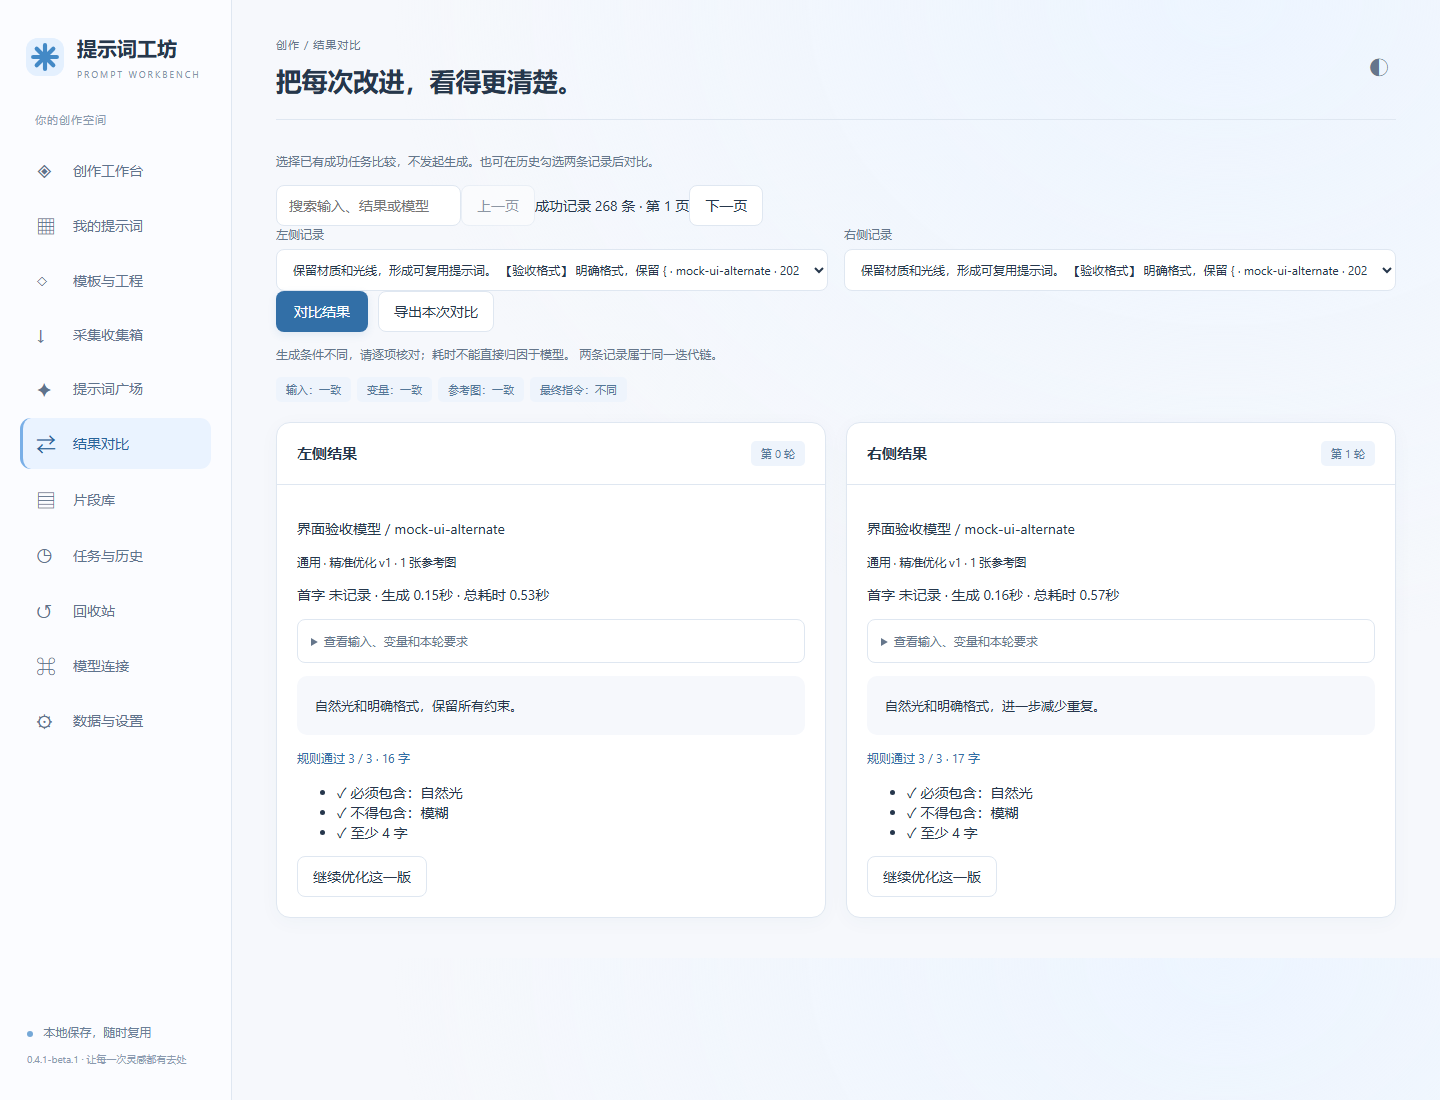
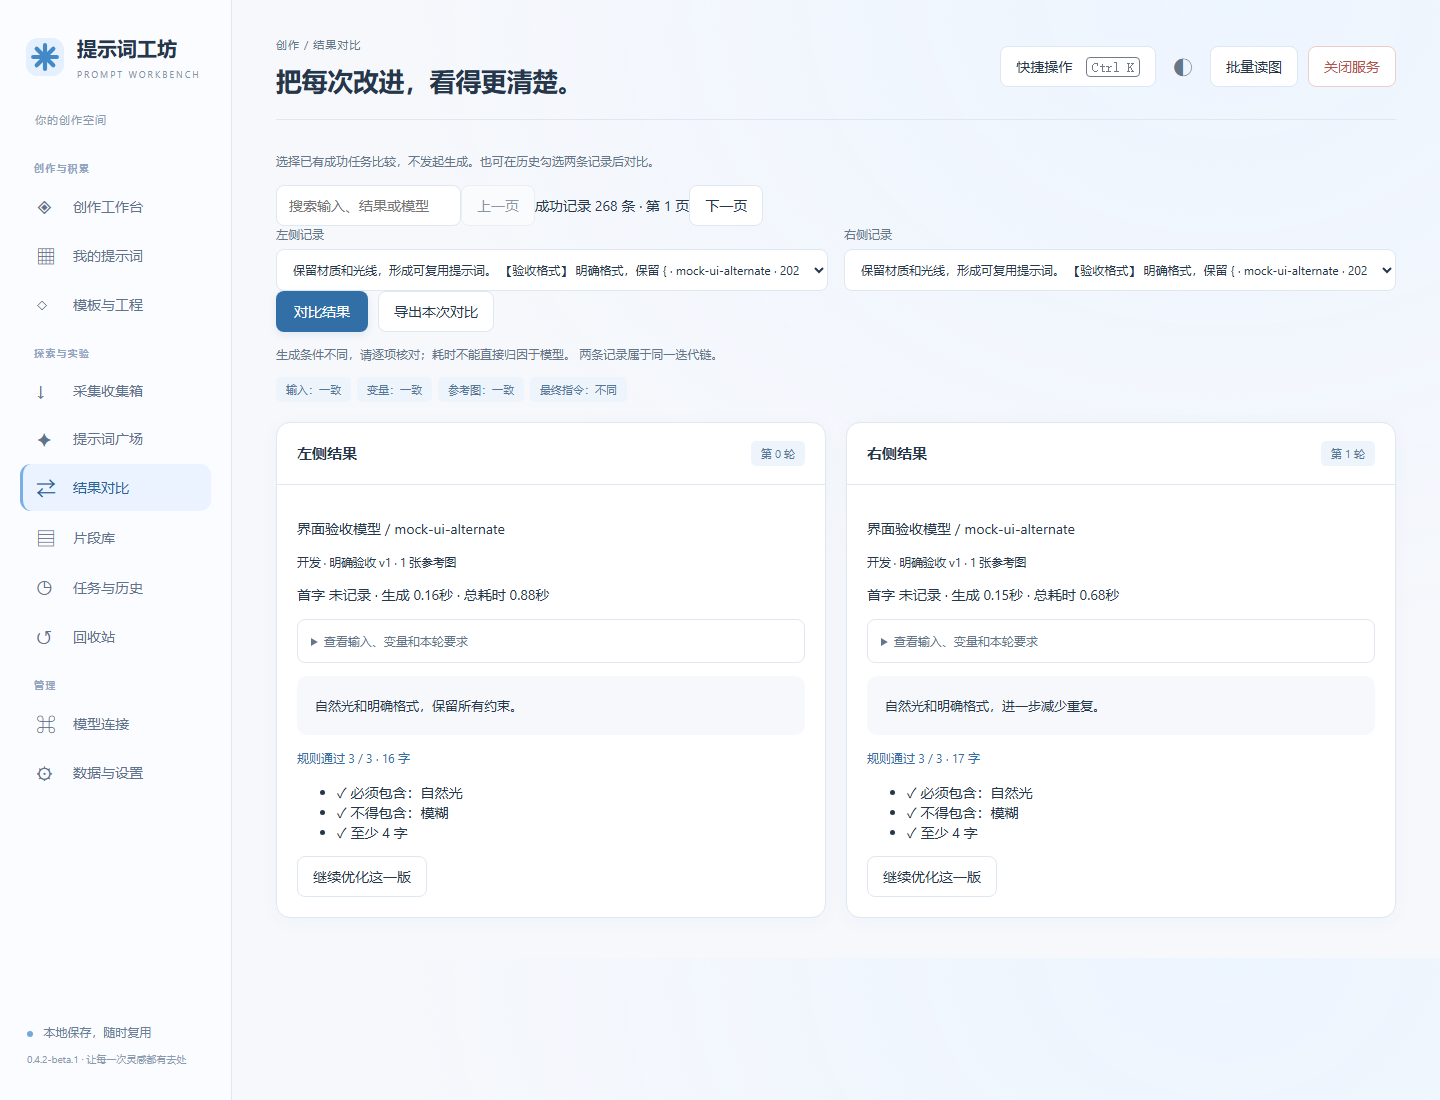
fix: preserve public source policy and old-backend draft recovery

diff --git a/public/source-manager.js b/public/source-manager.js
@@ -4,7 +4,7 @@ const statusText={queued:'等待',running:'同步中',succeeded:'成功',failed:
 export class SourceManager{
   constructor(ctx){this.c=ctx;this.selected=new Set();this.feeds=[];this.batch={status:'idle',items:[]};this.timer=null;this.starting=false;this.importing=false;}
   render(feeds,batch=this.c.readState().sourceBatch){this.feeds=feeds;this.batch=batch||this.batch;const busy=this.starting||this.importing||['running','cancelling'].includes(this.batch.status);
-    $('#share-feeds').innerHTML=feeds.map(f=>{const item=this.batch.items?.find(i=>i.id===f.id),syncable=f.syncable!==false;return `<article class="feed-card ${this.selected.has(f.id)?'is-selected':''}"><div class="feed-heading"><label class="check"><input type="checkbox" data-select-feed="${esc(f.id)}" ${this.selected.has(f.id)?'checked':''} aria-label="选中 ${esc(f.name)}"><strong>${esc(f.auditId||'基础源')}</strong></label><h3>${esc(f.name)}</h3><span class="mini-tag">${syncable?'公开同步':'文件导入'}</span></div><small>${esc(f.license)}</small><p>${esc(f.description)}</p><p class="muted">${esc(f.notice||'同步公开正文，个人收藏独立保留。')}</p><div class="feed-meta">${f.lastSync?`可展示 ${Number(f.count)||0} 条${f.total>f.count?' / 原站 '+f.total+' 条':''} · ${new Date(f.lastSync).toLocaleDateString('zh-CN')}`:'尚无缓存'}${item?`<p class="feed-result">${esc(statusText[item.status])}${item.added!=null?' · 新增 '+Number(item.added)+' · 已有跳过 '+Number(item.unchanged||0):''}${item.count!=null?' · '+Number(item.count)+'条':''}${item.error?' · '+esc(item.error):''}</p>`:''}${['s38','s39'].includes(f.id)?`<p>${f.scanVersion==='free-id-asc-100-v1'&&/[?&]access_type=0(?:&|$)/.test(f.fetchedUrl||'')?'免费目录':'旧全站统计（待迁移）'} ${f.total||'待读取'} · 已扫描 ${f.scannedTotal||0} · 详情成功 ${f.detailTotal||0} · 合格 ${f.eligibleTotal||0} · 跳过 ${(f.rejectedTotal||0)+(f.lockedTotal||0)}<br>${f.scanComplete?'本轮扫描完成':'待续页 '+(f.scanVersion?f.nextPage||1:1)}${f.syncing?' · 正在读第 '+(f.currentPage||1)+' 页，详情 '+(f.pageLoaded||0)+'/100':''}${f.totalChanged?' · 原站数量变化，请完成后重新核对':''}${f.historyCases?' · 历史集合 '+f.historyCases+'，合格 '+f.historyEligible:''}</p>`:''}${f.lastAdded!=null?`<p>最近新增 ${Number(f.lastAdded)||0} · 已有跳过 ${Number(f.lastUnchanged)||0}${f.readStrategy==='snapshot-diff'?' · 下载源快照后本地比对':f.readStrategy==='latest-pages'?' · 从最新内容读取':''}</p>`:''}${f.incrementalNextPage?`<p>增量更新待续第 ${Number(f.incrementalNextPage)} 页</p>`:''}${f.lastError?`<span class="history-error">${esc(f.lastError)}</span>`:''}</div><div class="button-row"><button class="secondary" data-action="feed-sync" data-id="${esc(f.id)}" ${busy||!syncable?'disabled':''}>${syncable?'同步此源':'需要原站文件'}</button>${['mother','s38','s39'].includes(f.id)?`<button class="secondary" data-action="feed-next" data-id="${esc(f.id)}" ${busy||!syncable||(f.lastPage&&!f.nextPage)?'disabled':''}>${f.id==='mother'?'读取下一页':'继续下一批'}</button>`:''}${['s38','s39'].includes(f.id)?`<button class="primary" data-action="feed-full" data-id="${esc(f.id)}" ${busy?'disabled':''}>全量 / 继续剩余</button><button class="text-button" data-action="feed-restart" data-id="${esc(f.id)}" ${busy?'disabled':''}>重新核对全量</button>`:''}${f.id==='s38'?`<button class="secondary" data-action="feed-history" data-id="s38" ${busy?'disabled':''}>补充历史 Markdown</button><button class="text-button" data-action="feed-references" data-id="s38">历史参考 / 短原文</button>`:''}<button class="text-button" data-action="feed-import" data-id="${esc(f.id)}" ${busy?'disabled':''}>导入来源文件</button><a class="source-link" href="${esc(f.url)}" target="_blank" rel="noopener noreferrer">访问来源 ↗</a>${f.repoUrl?`<a class="source-link" href="${esc(f.repoUrl)}" target="_blank" rel="noopener noreferrer">历史图片仓库 ↗</a><a class="source-link" href="${esc(f.snapshotUrl)}" target="_blank" rel="noopener noreferrer">历史JSON ↗</a>`:''}</div></article>`;}).join('');
+    $('#share-feeds').innerHTML=feeds.map(f=>{const item=this.batch.items?.find(i=>i.id===f.id),syncable=f.syncable!==false;return `<article class="feed-card ${this.selected.has(f.id)?'is-selected':''}"><div class="feed-heading"><label class="check"><input type="checkbox" data-select-feed="${esc(f.id)}" ${this.selected.has(f.id)?'checked':''} aria-label="选中 ${esc(f.name)}"><strong>${esc(f.auditId||'基础源')}</strong></label><h3>${esc(f.name)}</h3><span class="mini-tag">${syncable?'公开同步':'文件导入'}</span></div><small>${esc(f.license)}</small><p>${esc(f.description)}</p><p class="muted">${esc(f.notice||'同步公开正文，个人收藏独立保留。')}</p><div class="feed-meta">${f.lastSync?`可展示 ${Number(f.count)||0} 条${f.total>f.count?' / 原站 '+f.total+' 条':''} · ${new Date(f.lastSync).toLocaleDateString('zh-CN')}`:'尚无缓存'}${item?`<p class="feed-result">${esc(statusText[item.status])}${item.added!=null?' · 新增 '+Number(item.added)+' · 已有跳过 '+Number(item.unchanged||0):''}${item.count!=null?' · '+Number(item.count)+'条':''}${item.error?' · '+esc(item.error):''}</p>`:''}${['s38','s39'].includes(f.id)?`<p>${f.scanVersion==='free-id-asc-100-v1'&&/[?&]access_type=0(?:&|$)/.test(f.fetchedUrl||'')?'免费目录':'旧全站统计（待迁移）'} ${f.total||'待读取'} · 已扫描 ${f.scannedTotal||0} · 详情成功 ${f.detailTotal||0} · 合格 ${f.eligibleTotal||0} · 跳过 ${(f.rejectedTotal||0)+(f.lockedTotal||0)}<br>${f.scanComplete?'本轮扫描完成':'待续页 '+(f.scanVersion?f.nextPage||1:1)}${f.syncing?' · 正在读第 '+(f.currentPage||1)+' 页，详情 '+(f.pageLoaded||0)+'/100':''}${f.totalChanged?' · 原站数量变化，请完成后重新核对':''}${f.historyCases?' · 历史集合 '+f.historyCases+'，合格 '+f.historyEligible:''}</p>`:''}${f.lastAdded!=null?`<p>最近新增 ${Number(f.lastAdded)||0} · 已有跳过 ${Number(f.lastUnchanged)||0}${f.readStrategy==='snapshot-diff'?' · 下载源快照后本地比对':f.readStrategy==='latest-pages'?' · 从最新内容读取':''}</p>`:''}${f.incrementalNextPage?`<p>增量更新待续第 ${Number(f.incrementalNextPage)} 页</p>`:''}${f.lastError?`<span class="history-error">${esc(f.lastError)}</span>`:''}</div><div class="button-row"><button class="secondary" data-action="feed-sync" data-id="${esc(f.id)}" ${busy||!syncable?'disabled':''}>${syncable?'同步此源':'需要原站文件'}</button>${['mother','s38','s39'].includes(f.id)?`<button class="secondary" data-action="feed-next" data-id="${esc(f.id)}" ${busy||!syncable||(f.lastPage&&!f.nextPage)?'disabled':''}>${f.id==='mother'?'读取下一页':'继续下一批'}</button>`:''}${['s38','s39'].includes(f.id)?`<button class="primary" data-action="feed-full" data-id="${esc(f.id)}" ${busy||!syncable?'disabled':''}>全量 / 继续剩余</button><button class="text-button" data-action="feed-restart" data-id="${esc(f.id)}" ${busy||!syncable?'disabled':''}>重新核对全量</button>`:''}${f.id==='s38'?`<button class="secondary" data-action="feed-history" data-id="s38" ${busy||!syncable?'disabled':''}>补充历史 Markdown</button><button class="text-button" data-action="feed-references" data-id="s38">历史参考 / 短原文</button>`:''}<button class="text-button" data-action="feed-import" data-id="${esc(f.id)}" ${busy?'disabled':''}>导入来源文件</button><a class="source-link" href="${esc(f.url)}" target="_blank" rel="noopener noreferrer">访问来源 ↗</a>${f.repoUrl?`<a class="source-link" href="${esc(f.repoUrl)}" target="_blank" rel="noopener noreferrer">历史图片仓库 ↗</a><a class="source-link" href="${esc(f.snapshotUrl)}" target="_blank" rel="noopener noreferrer">历史JSON ↗</a>`:''}</div></article>`;}).join('');
     $('#source-selected-count').textContent=`已选 ${this.selected.size} / ${feeds.length} 个来源`;
     const all=$('#source-select-all');all.checked=feeds.length>0&&feeds.every(f=>this.selected.has(f.id));all.indeterminate=this.selected.size>0&&!all.checked;
     $('#sources-sync-stop').disabled=this.batch.status!=='running';$('#sources-sync-retry').disabled=busy||!this.batch.items?.some(i=>['failed','interrupted','cancelled'].includes(i.status));$('#sources-sync-export').disabled=!this.batch.items?.length;

diff --git a/public/app.js b/public/app.js
@@ -1,12 +1,34 @@
-import {RecoveryGate} from './recovery-gate.js';
-import {waitForServiceExit} from './service-exit.js';
-import {VERSION,SLOGAN} from './version.js';
-import { Collections } from './collections.js';
-import {Studio}from'./studio.js';
-import {Recycle} from './recycle.js';
-import {PromptLab} from './lab.js';
-import {AssetImporter} from './asset-import.js';
-import {isPromptTextFile} from './prompt-import.js';
+// Keep recovery independent of new modules: an older backend may not serve them.
+const {VERSION:CLIENT_VERSION}=await import('./version.js');
+const backendVersion=(await fetch('/health').then(r=>r.json()).catch(()=>({}))).version;
+if(backendVersion!==CLIENT_VERSION){
+  const $=s=>document.querySelector(s),feedback=$('#run-feedback');let snapshot={},snapshotReady=false,timer,saving=Promise.resolve();
+  const api=async(route,body)=>{const r=await fetch('/api/'+route,{method:body?'POST':'GET',headers:body?{'Content-Type':'application/json'}:{},body:body?JSON.stringify(body):undefined});if(!r.ok)throw Error('旧后台请求失败，请保留输入后使用原关闭脚本');return r.json();};
+  const esc=v=>String(v??'').replace(/[&<>"']/g,c=>({'&':'&amp;','<':'&lt;','>':'&gt;','"':'&quot;',"'":'&#39;'}[c]));
+  const setStatus=text=>{feedback.textContent=text;};
+  try{const state=await api('state');snapshot=state.draft||{};snapshotReady=true;$('#input').value=snapshot.input||'';
+    for(const [selector,rows,name]of [['#provider-select',state.providers||[],'name'],['#template-select',state.templates||[],'name']])$(selector).innerHTML=rows.map(r=>'<option value="'+esc(r.id)+'">'+esc(r[name])+'</option>').join('');
+    $('#provider-select').value=snapshot.providerId||state.providers?.[0]?.id||'';$('#template-select').value=snapshot.templateId||'optimize';
+  }catch(e){setStatus(e.message);}
+  for(const el of document.querySelectorAll('button,select,input,textarea'))if(!el.matches('#input,#shutdown-top,#shutdown'))el.disabled=true;
+  const save=()=>{if(!snapshotReady)return Promise.reject(Error('尚未读取旧草稿，保留当前输入后重试，暂不覆盖保存'));clearTimeout(timer);const input=$('#input').value;saving=saving.catch(()=>{}).then(async()=>{snapshot=await api('draft',{...snapshot,input,providerId:snapshot.providerId||$('#provider-select').value,templateId:snapshot.templateId||$('#template-select').value});});return saving;};
+  $('#input').addEventListener('input',()=>{clearTimeout(timer);timer=setTimeout(()=>save().then(()=>setStatus('旧后台：草稿已保存，可正常关闭后重新启动新版。')).catch(e=>setStatus(e.message)),500);});
+  const close=async()=>{if(!confirm('保存草稿并正常关闭旧后台？'))return;try{await save();await api('shutdown',{});setStatus('正在保存并关闭旧后台，请等待退出确认…');let failures=0;
+    for(let i=0;i<180;i++){await new Promise(r=>setTimeout(r,250));try{const r=await fetch('/health',{cache:'no-store'});if(!r.ok){failures=0;continue;}const h=await r.json();failures=0;if(h.version!==backendVersion){setStatus('旧后台已退出，新版已启动，请刷新页面。');return;}}catch(e){if(e instanceof TypeError&&++failures>=3){setStatus('服务已关闭，可通过启动器重新打开。');return;}}}
+    setStatus('尚未确认退出，请检查原关闭脚本，未强制结束服务。');
+  }catch(e){setStatus(e.message);}};
+  $('#shutdown-top').onclick=close;$('#shutdown').onclick=close;$('#version-tag').textContent=CLIENT_VERSION;
+  setStatus('页面版本与后台不一致：可以编辑并保存草稿、正常关闭；重新启动后启用新版功能。');
+}else{
+const {RecoveryGate}=await import("./recovery-gate.js");
+const {waitForServiceExit}=await import("./service-exit.js");
+const {VERSION,SLOGAN}=await import("./version.js");
+const { Collections }=await import("./collections.js");
+const {Studio}=await import("./studio.js");
+const {Recycle}=await import("./recycle.js");
+const {PromptLab}=await import("./lab.js");
+const {AssetImporter}=await import("./asset-import.js");
+const {isPromptTextFile}=await import("./prompt-import.js");
 const $=s=>document.querySelector(s);
 const esc=v=>String(v??'').replace(/[&<>"']/g,c=>({'&':'&amp;','<':'&lt;','>':'&gt;','"':'&quot;',"'":'&#39;'}[c]));
 let state={providers:[],templates:[],assets:[],jobs:[],presets:[]},currentJob=null,images=[],lastResult='',selectorStamp='',draftTimer,toastTimer,importMode='backup';
@@ -19,7 +41,7 @@ const studio=new Studio({api,act,refresh,toast,openForm,useText:useCollectedText
 const lab=new PromptLab({api,act,refresh,toast,show,download,payload,draft,assertIdle:assertInputIdle,useText:useComposedText,readState:()=>state,lastResult:()=>lastResult,selectedJobs:()=>[...collections.jobSelection],submit:submitJob});
 const assetImporter=new AssetImporter({api,act,toast,openForm});
 let imageBatchUI,connectionUI,settingsUI;
-const backendVersion=(await fetch('/health').then(r=>r.json()).catch(()=>({}))).version;let inputSource=null,imageEpoch=0;
+let inputSource=null,imageEpoch=0;
 function assertInputIdle(){if($('#run').disabled||state.activeJobId)throw Error('请先完成或取消正在运行的任务，再带入其他内容');}
 function useComposedText(text,source){assertInputIdle();recoveryGate.invalidate();inputSource=source;$('#input').value=text;$('#output').value='';currentJob=null;lastResult='';renderJob();counts();draft();show('workspace');}
 function useCollectedText(text,source=null){assertInputIdle();recoveryGate.invalidate();lab.appliedIds=[];lab.paintComposition();imageEpoch++;images=[];document.querySelector('#image-input').value='';renderImages();inputSource=source;$('#input').value=text;$('#output').value='';currentJob=null;lastResult='';renderJob();$('#run').disabled=false;$('#output').readOnly=false;$('#task-progress').classList.add('hidden');$('#job-status').textContent='等待创作';counts();draft();show('workspace');}
@@ -170,3 +192,5 @@ async function poll(){if(serviceClosing){setTimeout(poll,1000);return;}let busy=
 setTimeout(poll,350);
 
 for(const dialog of document.querySelectorAll('dialog')){let startedOutside=false;const outside=e=>{const r=dialog.getBoundingClientRect();return e.clientX<r.left||e.clientX>r.right||e.clientY<r.top||e.clientY>r.bottom;};dialog.addEventListener('pointerdown',e=>{startedOutside=e.target===dialog&&outside(e);});dialog.addEventListener('click',e=>{if(dialog.dataset.busy==='true')return;if(startedOutside&&e.target===dialog&&outside(e))dialog.close();startedOutside=false;});}
+
+}

diff --git a/src/sources.js b/src/sources.js
@@ -155,6 +155,7 @@ export class Sources{
     }while(current);return old;
   }
   async syncHistory(){
+    if(this.feed('s38').syncable===false)throw Error('公开版未确认自动读取权限；请访问原站，或导入你有权使用的文件。');
     if(this.closing||this.batchBusy()||this.syncing.size)throw Error('请等待来源同步结束');
     this.syncing.add('s38');const work=(async()=>{const files=[];for(const file of [...Array.from({length:10},(_,i)=>(i+1)*100+'.md'),'README.md']){const data=await this.readRepo({repo:'songguoxs/gpt4o-image-prompts',branch:'master'},file);files.push({file,text:data.text});}const h=historicalImages(files),old=this.store.get('feeds','s38')||{};return this.ingestRows('s38',h.rows,'historical-markdown:complete',old.total,{...old,historyCases:h.cases,historyEligible:h.eligible,historyReferences:h.references,historyRejected:h.rejected});})();this.inflight.add(work);try{return await work;}finally{this.inflight.delete(work);this.syncing.delete('s38');}
   }

diff --git a/docs/DATA.md b/docs/DATA.md
@@ -9,3 +9,10 @@
 代码回退不等于数据回退：旧软件拒绝更高schema，必须恢复升级前一致快照；先保留后来新增内容，说明回退可能损失快照后记录。迁移失败不删原库。
 
 自动JSON备份保留最近20份，缓存默认512MB/30天；不可变私人附件为保证恢复会长期保留，日志未自动轮转。不要手动删有备份引用的附件；需要清理先备份并确认影响。
+
+
+## 0.4.2 数据中心与升级
+
+分类容量只按需统计，不执行清理、压缩或自动维护。“数据库快照”使用SQLite一致性备份，最多保留3份，满额拒绝而不自动删旧文件；快照包含数据库中的加密凭据／公共记录，但不包含data/media中的素材，不能代替完整data备份。快照跨Windows用户不能直接解密凭据，账号需重新登录。
+
+升级前保存草稿、正常关闭旧后台，复制完整data到安全位置，再解压新程序到独立可写目录并迁入data；不要用空数据覆盖原data。新版页面遇到旧后台提供兼容草稿保存／正常退出入口，其他功能待原启动器重开新版。回退前先保存现有数据副本，再使用原程序及对应data备份；不要把旧快照直接覆盖升级后的新增内容。
